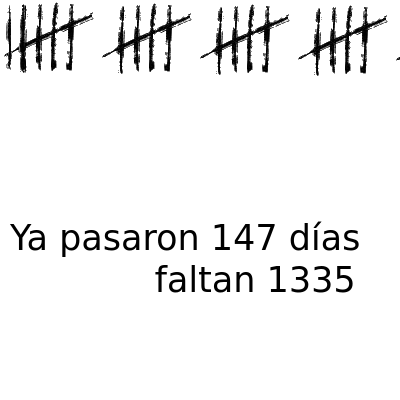
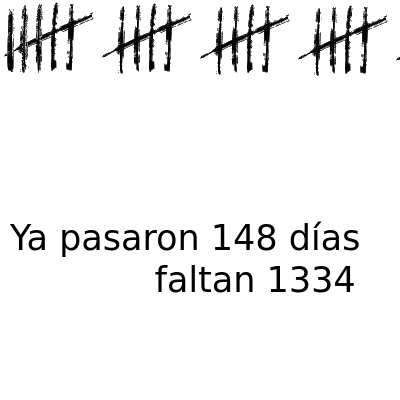
deploy: 28882f26f23b9f53dac6c4991168e610486d0e44

Changed region(s): [[0.0, 0.0, 0.12, 0.18], [0.63, 0.54, 0.69, 0.63], [0.84, 0.66, 0.9, 0.75]]

diff --git a/index.html b/index.html
@@ -3,19 +3,19 @@
   <head>
     <meta charset='utf-8'>
     <meta http-equiv='X-UA-Compatible' content='IE=edge'>
-    <title>Ya pasaron 147 días y faltan 1335</title>
-    <meta name="description" content="Ya pasaron 147 días y faltan 1335">
-    <meta itemprop="name" content="Ya pasaron 147 días y faltan 1335">
-    <meta itemprop="description" content="Ya pasaron 147 días y faltan 1335">
+    <title>Ya pasaron 148 días y faltan 1334</title>
+    <meta name="description" content="Ya pasaron 148 días y faltan 1334">
+    <meta itemprop="name" content="Ya pasaron 148 días y faltan 1334">
+    <meta itemprop="description" content="Ya pasaron 148 días y faltan 1334">
     <meta name="twitter:card" content="summary">
-    <meta name="twitter:title" content="Ya pasaron 147 días y faltan 1335">
-    <meta name="twitter:description" content="Ya pasaron 147 días y faltan 1335">
+    <meta name="twitter:title" content="Ya pasaron 148 días y faltan 1334">
+    <meta name="twitter:description" content="Ya pasaron 148 días y faltan 1334">
     <meta name="twitter:creator" content="@FloriusWasTaken">
     <meta name="twitter:image" content="https://pasaron.meme.ar/capture.png">
-    <meta property="og:title" content="Ya pasaron 147 días y faltan 1335">
-    <meta property="og:description" content="Ya pasaron 147 días y faltan 1335">
+    <meta property="og:title" content="Ya pasaron 148 días y faltan 1334">
+    <meta property="og:description" content="Ya pasaron 148 días y faltan 1334">
     <meta property="og:url" content="https://pasaron.meme.ar">
-    <meta property="og:site_name" content="Ya pasaron 147 días y faltan 1335">
+    <meta property="og:site_name" content="Ya pasaron 148 días y faltan 1334">
     <meta property="og:type" content="website">
     <meta property="og:image" content="https://pasaron.meme.ar/capture.png">
     <meta name="theme-color" content="#dc143c">
@@ -69,18 +69,18 @@
         padding: 0;
       }
     </style>
-    <title>Ya pasaron 147 días y faltan 1335</title>
+    <title>Ya pasaron 148 días y faltan 1334</title>
   </head>
   <body>
     <div id="main">
       <img src="img/5.png"/><img src="img/5.png"/><img src="img/5.png"/><img src="img/5.png"/><img src="img/5.png"/><img src="img/5.png"/><img src="img/5.png"/><img src="img/5.png"/><img src="img/5.png"/><img src="img/5.png"/><img src="img/5.png"/><img src="img/5.png"/><img src="img/5.png"/><img src="img/5.png"/><img src="img/5.png"/><img src="img/5.png"/><img src="img/5.png"/><img src="img/5.png"/><img src="img/5.png"/><img src="img/5.png"/><img src="img/5.png"/><img src="img/5.png"/><img src="img/5.png"/><img src="img/5.png"/><img src="img/5.png"/><img src="img/5.png"/><img src="img/5.png"/><img src="img/5.png"/><img src="img/5.png"/>
       
-        <img src="img/2.png"/>
+        <img src="img/3.png"/>
       
     </div>
     <footer id="footer">
       <marquee id="marquee" class="is-vertical-align">
-        Ya pasaron 147 días y faltan 1335
+        Ya pasaron 148 días y faltan 1334
       </marquee>
       <ul>
         <li>
